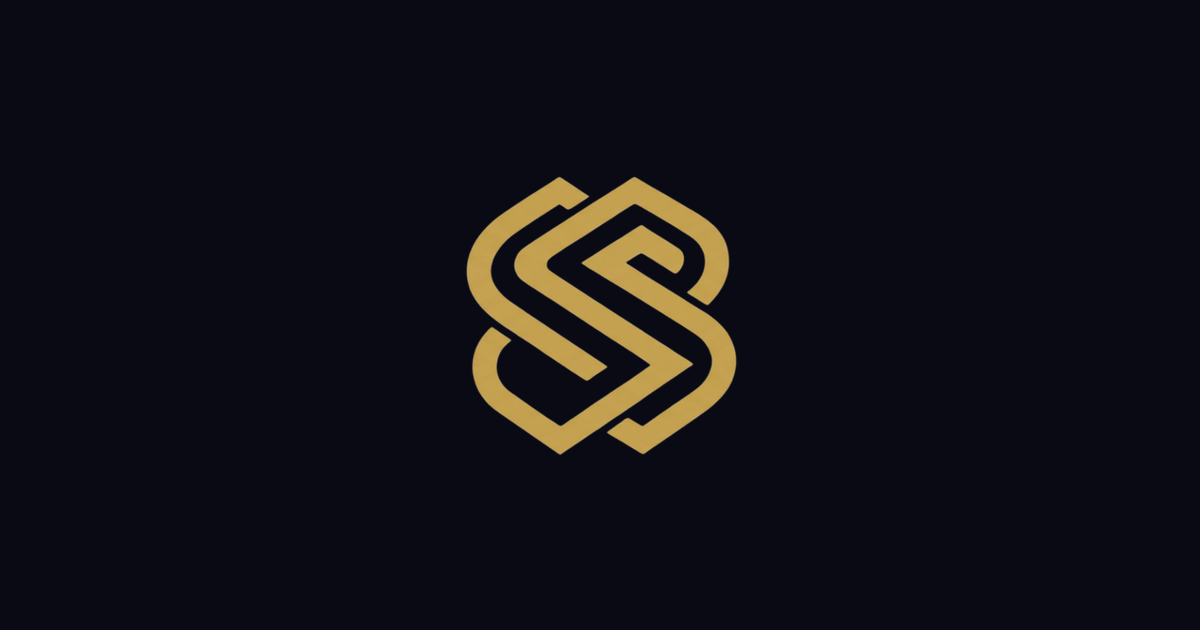
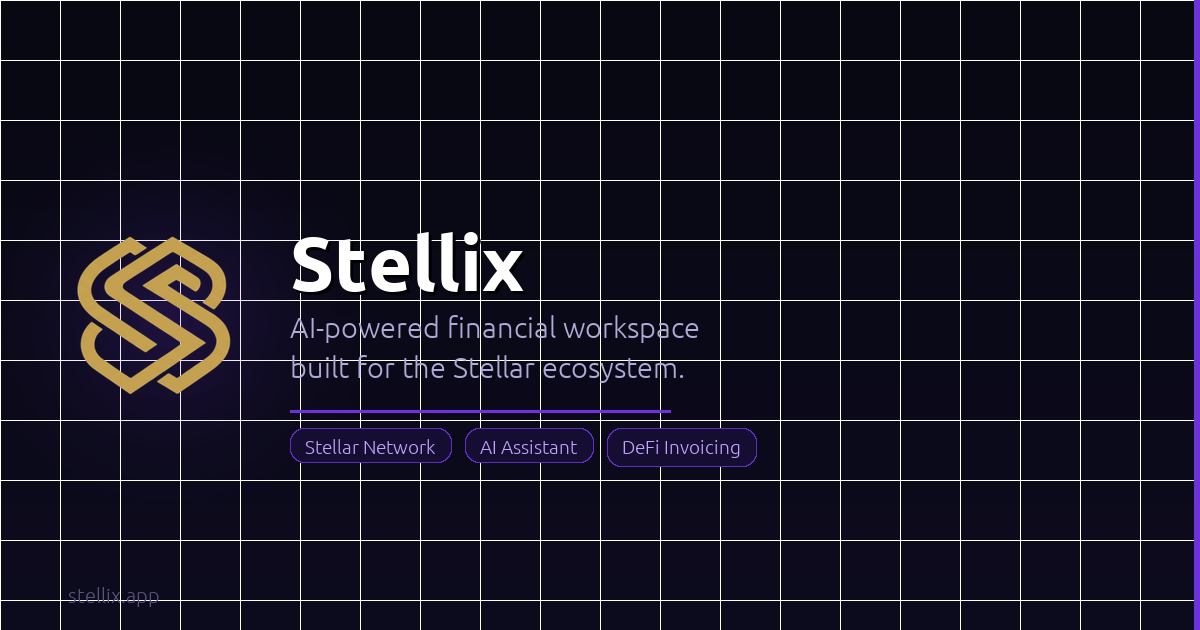
feat: add rich URL preview — branded OG image + full og/twitter meta tags

diff --git a/src/routes/__root.tsx b/src/routes/__root.tsx
@@ -81,15 +81,25 @@ export const Route = createRootRouteWithContext<{ queryClient: QueryClient }>()(
     meta: [
       { charSet: "utf-8" },
       { name: "viewport", content: "width=device-width, initial-scale=1" },
-      { title: "Stellix" },
-      { name: "description", content: "AI-powered financial workspace built for the Stellar ecosystem." },
+      { title: "Stellix — AI Financial Workspace on Stellar" },
+      { name: "description", content: "AI-powered financial workspace built for the Stellar ecosystem. Manage invoices, track transactions, and get AI insights — all on-chain." },
       { name: "author", content: "Stellix" },
-      { property: "og:title", content: "Stellix" },
-      { property: "og:description", content: "AI-powered financial workspace built for the Stellar ecosystem." },
+      { name: "theme-color", content: "#6e32dc" },
+      // Open Graph
+      { property: "og:title", content: "Stellix — AI Financial Workspace on Stellar" },
+      { property: "og:description", content: "AI-powered financial workspace built for the Stellar ecosystem. Manage invoices, track transactions, and get AI insights — all on-chain." },
       { property: "og:type", content: "website" },
       { property: "og:image", content: "/og-image.png" },
+      { property: "og:image:width", content: "1200" },
+      { property: "og:image:height", content: "630" },
+      { property: "og:image:alt", content: "Stellix — AI-powered financial workspace on Stellar" },
+      { property: "og:site_name", content: "Stellix" },
+      // Twitter / X
       { name: "twitter:card", content: "summary_large_image" },
+      { name: "twitter:title", content: "Stellix — AI Financial Workspace on Stellar" },
+      { name: "twitter:description", content: "AI-powered financial workspace built for the Stellar ecosystem. Manage invoices, track transactions, and get AI insights — all on-chain." },
       { name: "twitter:image", content: "/og-image.png" },
+      { name: "twitter:image:alt", content: "Stellix — AI-powered financial workspace on Stellar" },
     ],
     links: [
       { rel: "stylesheet", href: appCss },
